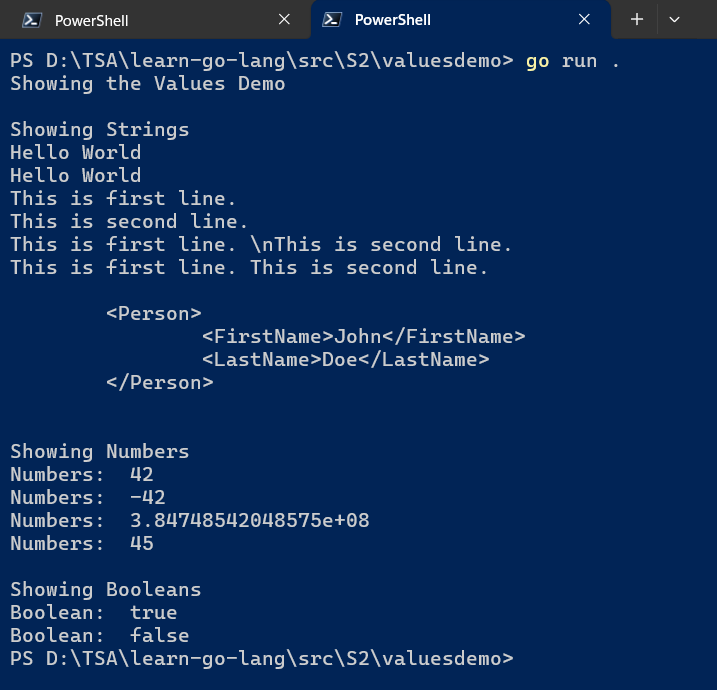
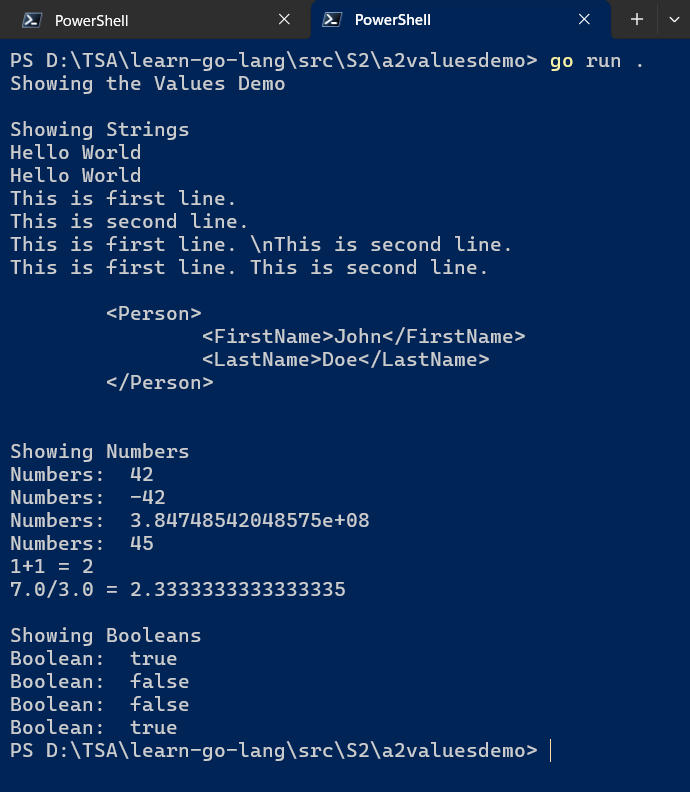
Swamy/26mar work (#13)
* Update S2.md

* Folder names changes

* Changes

* Update S2.md

* Changes

Changed region(s): [[0.0, 0.0, 1.0, 0.9739]]

diff --git a/src/S2/a3variablesdemo/main.go b/src/S2/a3variablesdemo/main.go
@@ -24,12 +24,15 @@ func main() {
 	msg4 := "Hello World" // Short Declaration. Type Inference
 	fmt.Println("Message 4: ", msg4)
 
+	// Multi-line Strings. Escape characters will be honored
 	msg4 = "This is first line. \nThis is second line."
 	fmt.Println("Message 4: ", msg4)
 
+	// Multi-line Strings using backticks. It will Ignore the formatting. Escape characters will be ignored
 	msg4 = `This is first line. \nThis is second line.`
 	fmt.Println("Message 4: ", msg4)
 
+	// Multi-line Strings using backticks. It preserves the formatting
 	msg4 = `
 		<Person>
 			<FirstName>John</FirstName>
@@ -66,9 +69,3 @@ func main() {
 	fmt.Println("Number of bytes written: ", n)
 	fmt.Println("Error: ", e)
 }
-
-// // Character
-// a, b := 'A', '世'
-// fmt.Println(a, string(a))
-// fmt.Println(b, string(b))
-// fmt.Printf("%c %c\n", a, b)

diff --git a/src/S2/a2valuesdemo/main.go b/src/S2/a2valuesdemo/main.go
@@ -36,11 +36,15 @@ func main() {
 	fmt.Println("Numbers: ", -42)
 	fmt.Println("Numbers: ", 384748542.048575)
 	fmt.Println("Numbers: ", 42.0+3.0)
+	fmt.Println("1+1 =", 1+1)
+	fmt.Println("7.0/3.0 =", 7.0/3.0)
 
 	// Booleans
 	fmt.Println("\nShowing Booleans")
 	fmt.Println("Boolean: ", true)
 	fmt.Println("Boolean: ", false)
+	fmt.Println("Boolean: ", !true)
+	fmt.Println("Boolean: ", !false)
 }
 
 // // Character

diff --git a/documentation/ANoobToNerd/S2.md b/documentation/ANoobToNerd/S2.md
@@ -1,4 +1,4 @@
-# `Session 2:` Working with Values, Variables, Basic Types, and Constants in `Go`
+# `Session 2:` Working with Values, Basic Types, Variables, and Constants in `Go`
 
 ## Date Time: XX-Apr-2024 at 09:00 AM IST
 
@@ -30,7 +30,21 @@
 
 ## What are we doing today?
 
-> 1. To be done
+> 1. The Big Picture
+> 1. `Go` tool chain
+> 1. Single Binary
+>    - `.exe` location when executing from `VS Code`
+>    - `.exe` location when executing using `go run`
+>    - `.exe` location when executing using `go build`
+> 1. Values Demo
+>    - Strings | Numbers | Booleans
+> 1. Basic Types
+>    - string | int | uinit | float32 | float64 | bool | error
+> 1. Variables
+>    - Zero values
+>    - Variables with initializers
+>    - Short variable declarations
+> 1. Constants
 > 1. SUMMARY / RECAP / Q&A
 
 ### Please refer to the [**Source Code**](https://github.com/ViswanathaSwamy-PK-TechSkillz-Academy/learn-go-lang/tree/main/src/S2) of today's session for more details
@@ -56,11 +70,11 @@
 ## X. Single Binary
 
 > 1. Discussion and Demo
-> 1. `.exe` temporary location when executing from `VS Code`
-> 1. `.exe` temporary location when executing using `go run`
-> 1. `.exe` temporary location when executing using `go build`
+> 1. `.exe` location when executing from `VS Code`
+> 1. `.exe` location when executing using `go run`
+> 1. `.exe` location when executing using `go build`
 
-### `.exe` temporary location when executing from `VS Code`
+### `.exe` location when executing from `VS Code`
 
 ![Go Executable Path 1](../images/S2/Executable_Path_1.PNG)
 
@@ -68,7 +82,7 @@
 go run .
 ```
 
-### `.exe` temporary location when executing using `go run`
+### `.exe` location when executing using `go run`
 
 ![Go Executable Path 2](../images/S2/Executable_Path_2.PNG)
 
@@ -80,7 +94,7 @@ go build && ./helloworld.exe
 
 ![Go Executable Path 3](../images/S2/Executable_Path_3.PNG)
 
-## X. Values
+## X. Values Demo
 
 > 1. Discussion and Demo
 > 1. string | int | bool

diff --git a/documentation/ANoobToNerd/S3.md b/documentation/ANoobToNerd/S3.md
@@ -30,7 +30,12 @@
 
 ## What are we doing today?
 
-> 1. To be deon
+> 1. The Big Picture
+> 1. Basic Types
+> 1. Type Conversions
+> 1. Arithmetic and Comparison Operators
+> 1. Escape sequences
+> 1. Constant Expressions, and Iota
 > 1. SUMMARY / RECAP / Q&A
 
 ### Please refer to the [**Source Code TOBEDONE**](https://github.com/ViswanathaSwamy-PK-TechSkillz-Academy/minimal-apis) of today's session for more details
@@ -62,6 +67,10 @@
 > 1. float32 float64
 > 1. complex64 complex128
 
+## X. Type Conversions
+
+> 1. Discussion and Demo
+
 ## X. Arithmetic and Comparison Operators
 
 > 1. Discussion and Demo
@@ -71,10 +80,6 @@
 > 1. Discussion and Demo
 
 ## X. Constant Expressions, and Iota
-
-> 1. Discussion and Demo
-
-## X. Type Conversions
 
 > 1. Discussion and Demo
 

diff --git a/README.md b/README.md
@@ -13,6 +13,14 @@ I am learning `Go` Language from different Video Courses, Books, and Websites. W
 > 1. Beginner Intermediate - Building Full Stack Applications using `Go`
 > 1. Beginner Intermediate - Building Microservices using `Go`
 
+```go
+// Character
+a, b := 'A', '世'
+fmt.Println(a, string(a))
+fmt.Println(b, string(b))
+fmt.Printf("%c %c\n", a, b)
+```
+
 ## Planned Series
 
 ### 1. Noob to Nerd in `Go` Lang
